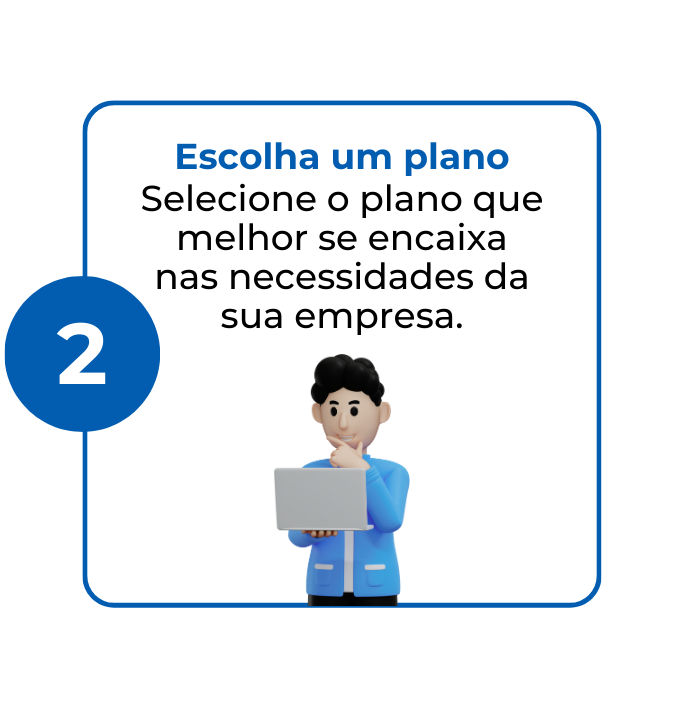
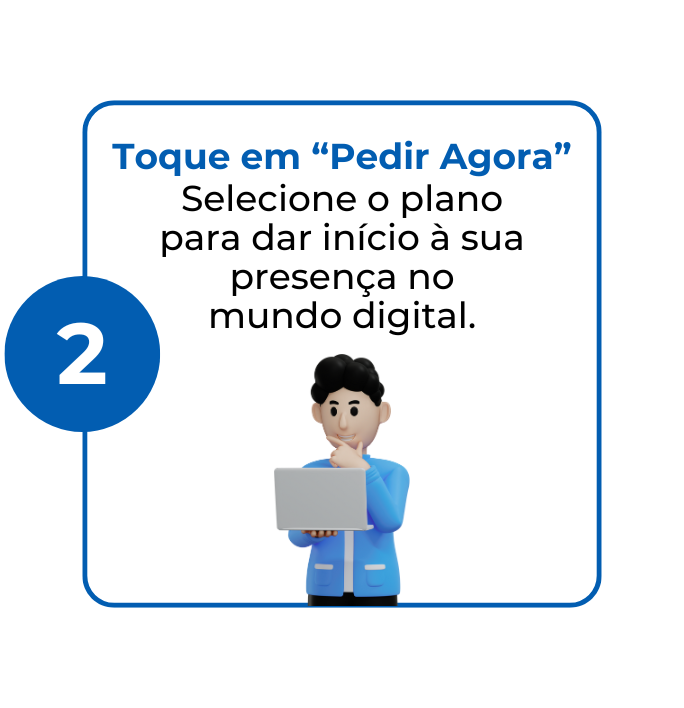
04:12

Changed region(s): [[0.1535, 0.1864, 0.8289, 0.4661]]

diff --git a/index.html b/index.html
@@ -124,11 +124,11 @@
                         <h2> negócio no digital!</h2>
                         <br> <br>
                         <p>Leve seu negócio físico para o mundo digital.
-                            Comece agora mesmo e descubra o impacto de um site profissional com preços acessíveis para todos os perfis!</p>
+                            Comece agora mesmo e descubra o impacto de um site profissional por um preço acessível para todos os perfis!</p>
                     </div>
                     
                     <div class="hero-btn">
-                        <a href="#price" class="btn">Conferir Planos</a>
+                        <a href="#price" class="btn">Conferir Plano</a>
                         <a class="btn" href="https://wa.me/5518996742364?text=">  Fale conosco  </a>
                     </div>
                 </div>
@@ -348,10 +348,8 @@
                     <h2>Adquira Agora!</h2>
                 </div>
                 <div class="container banner-text">
-                    <p>
-                        Aproveite um pacote completo que inclui domínio gratuito, hospedagem, manutenção e um design responsivo. Esses benefícios estão disponíveis em todos os nossos planos de assinatura, garantindo uma presença online sem preocupações.
-                    </p>
-                    <a class="btn" href="#price">Conferir Planos</a>
+                    <p>Aproveite nosso pacote completo que inclui e-mail profissional, hospedagem, manutenção, design responsivo e muito mais. Todos esses benefícios estão disponíveis em nosso plano de assinatura, garantindo uma presença online sem preocupações e com total suporte. Invista na sua presença digital com confiança e qualidade!</p>
+                    <a class="btn" href="#price">Conferir Plano</a>
                 </div>
             </div>
         </div>
@@ -627,11 +625,11 @@
         <div class="price" id="price" >
             <div class="container" id="planos">
                 <div class="section-header text-center wow zoomIn" data-wow-delay="0.1s">
-                    <p>Planos</p>
-                    <h2>Confira Nossos Planos</h2>
+                    <p>Plano Mensal</p>
+                    <h2>Confira O Que Está Incluso</h2>
                 </div>
                 <div class="row">
-                    <div class="col-md-4 wow fadeInUp" data-wow-delay="0.5s">
+                    <!--<div class="col-md-4 wow fadeInUp" data-wow-delay="0.5s">
                         <div class="price-item">
                             <div class="price-header">
                                 <div class="price-title">
@@ -661,33 +659,31 @@
                                 </div>
                             </div>
                         </div>
-                    </div>
+                    </div>-->
                     <div class="col-md-4 wow fadeInUp" data-wow-delay="0.0s">
                         <div class="price-item featured-item">
                             <div class="price-header">
                                 <div class="price-title">
-                                    <h2>Plano Pro</h2>
+                                    <h2>Por apenas:</h2>
                                 </div>
                                 <div class="price-prices">
-                                    <h2><small></small>75<span>/Mês</span></h2>
-                                    <span>Taxa de adesão R$ 199</span>
+                                    <h2><small></small>89<span>/Mês</span></h2>
                                 </div>
                             </div>
                             <div class="price-body">
                                 <div class="price-description">
                                     
                                     <ul>
-                                        <li>Landing Page ou Site Institucional</li>
-                                        <li> 1 Domínio Grátis</li>
-                                        <li>Hospedagem</li>
-                                        <li>2 Manutenções Mensal</li>
-                                        <li>Integração com WhatsApp</li>
-                                        <li> SEO</li>
-                                        <li>Suporte Especializado</li>
+                                        <li>E-mail Profissional</li>
+                                        <li>Hospedagem Turbo</li>
                                         <li>Certificado SSL</li>
+                                        <li>Estratégias de SEO</li>
                                         <li>Backup Semanal</li>
-                                        <li> Google Analytics</li>
-                                        <li> Integração com Redes Sociais</li>
+                                        <li>2 Manutenções Mensais</li>
+                                        <li>Suporte Dedicado</li>
+                                        <li>Botões de Whatsapp</li>
+                                        <li>Integração com Redes Sociais</li>
+                                        <li>Google Analytics</li>
                                         
                                     </ul>
                                 </div>
@@ -699,7 +695,7 @@
                             </div>
                         </div>
                     </div>
-                    <div class="col-md-4 wow fadeInUp" data-wow-delay="0.5s">
+                   <!-- <div class="col-md-4 wow fadeInUp" data-wow-delay="0.5s">
                         <div class="price-item">
                             <div class="price-header">
                                 <div class="price-title">
@@ -734,7 +730,7 @@
                                 </div>
                             </div>
                         </div>
-                    </div>
+                    </div>-->
                 </div>
             </div>
         </div>
@@ -931,7 +927,7 @@
                             </div>
                             <div class="faq-answer" id="faq-answer-1">
                                 <p>
-                                    Siga o passo a passo: escolha um plano, insira suas informações, efetue o pagamento e pronto! Aguarde que entraremos em contato com você.
+                                    Siga o passo a passo: toque em "Pedir Agora", insira suas informações, efetue o pagamento e pronto! Aguarde que entraremos em contato com você.
                                 </p>
                             </div>
                         </div>
@@ -1011,15 +1007,16 @@
                     <div class="col-lg-6">
                         <div class="faq-item wow fadeInUp" data-wow-delay="0.3s">
                             <div class="faq-question" onclick="toggleFaqAnswer(8)">
-                                <h2>Posso alterar meu plano de assinatura?</h2>
+                                <h2>Posso mudar algo que está incluído no meu plano?</h2>
                             </div>
                             <div class="faq-answer" id="faq-answer-8">
                                 <p>
-                                    Sim, você pode alterar seu plano de assinatura a qualquer momento. Basta nos contatar para solicitar a mudança, e o novo valor será cobrado no próximo mês.
+                                    Nosso plano de assinatura é fixo e inclui um conjunto específico de serviços e recursos. Caso tenha alguma dúvida ou necessidade especial, entre em contato conosco para mais informações ou para discutir como podemos atender às suas necessidades.
                                 </p>
                             </div>
                         </div>
                     </div>
+                    
                 </div>
             </div>
         </div>
@@ -1056,11 +1053,10 @@
                             <p>@brandcodesolutions</p>
                         </div>
                         <div class="footer-social">
-                            <a href=""><i class="fab fa-twitter"></i></a>
-                            <a href=""><i class="fab fa-facebook-f"></i></a>
-                            <a href=""><i class="fab fa-youtube"></i></a>
-                            <a href=""><i class="fab fa-instagram"></i></a>
-                            <a href=""><i class="fab fa-linkedin-in"></i></a>
+                            <a href="https://www.facebook.com/share/h83gWL4ykdLJGZ75/?mibextid=qi2Omg"><i class="fab fa-facebook-f"></i></a>
+                            <a href="https://api.whatsapp.com/send?phone=%2B5518996742364&context=ARDwuAoddf1yXWUz5Io2aTxkBQ8YVf3d1OfHG4fXWQt6pHtrueHwtDSiDVlxqwrJz75oMpkfW_-dG8KsK0ju2hxpEhiR4kM4_HOmmKCC6o7jSk9awRb_ry72_nHtB9S8-3fgmO2JMGXxZDkZ2BaXvNfBxA&source=FB_Page&app=facebook&entry_point=page_cta"><i class="fab fa-whatsapp"></i></a>
+                            <a href="https://www.instagram.com/brandcodesolutions?igsh=MXVlOXAwdGd4d3U5MA=="><i class="fab fa-instagram"></i></a>
+                            <a href="https://www.linkedin.com/company/brandcode-solutions/"><i class="fab fa-linkedin-in"></i></a>
                         </div>
                     </div>
                 </div>

diff --git a/css/style.css b/css/style.css
@@ -1021,6 +1021,8 @@ a:focus {
 
 .price .row {
     padding: 0 15px;
+    display: flex;
+    justify-content: center; /* Centraliza horizontalmente */
 }
 
 .price .col-md-4 {
@@ -1055,13 +1057,13 @@ a:focus {
 }
 
 .price .price-title h2 {
-    font-size: 25px;
+    font-size: 20px;
     font-weight: 400;
     text-transform: uppercase;
 }
 
 .price .price-prices h2 {
-    font-size: 45px;
+    font-size: 50px;
     font-weight: 700;
     margin-left: 10px;
 }
@@ -1127,6 +1129,7 @@ a:focus {
     box-shadow: inset 0 0 0 0 #025DB1;
     border-color: #025DB1;
 }
+
 
 
 /*******************************/
